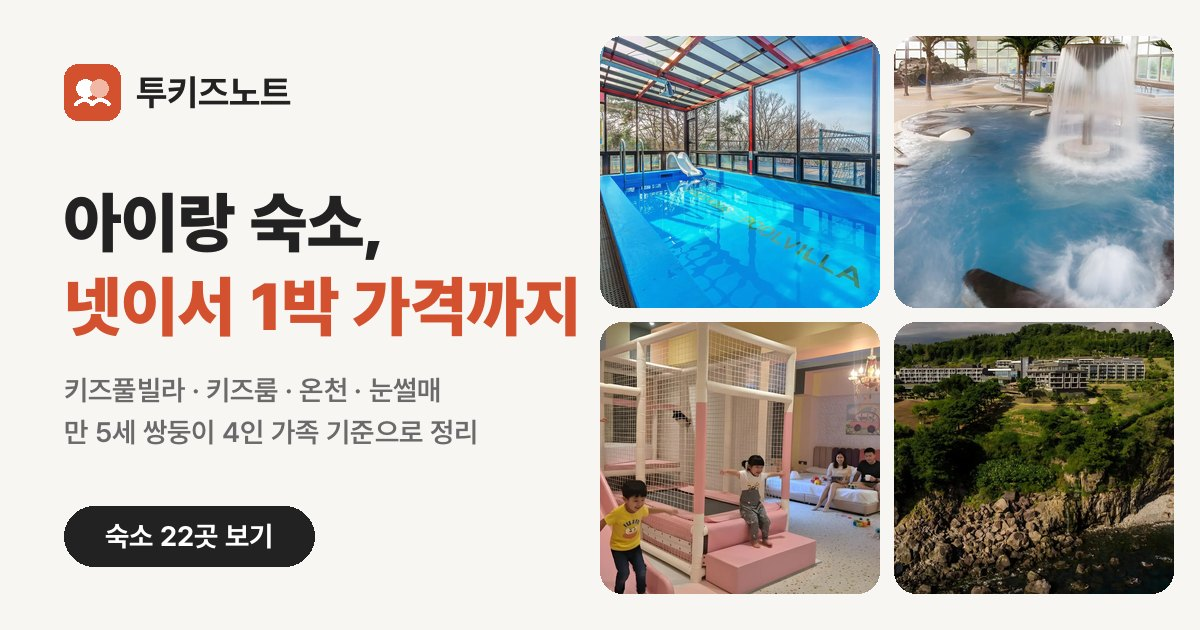
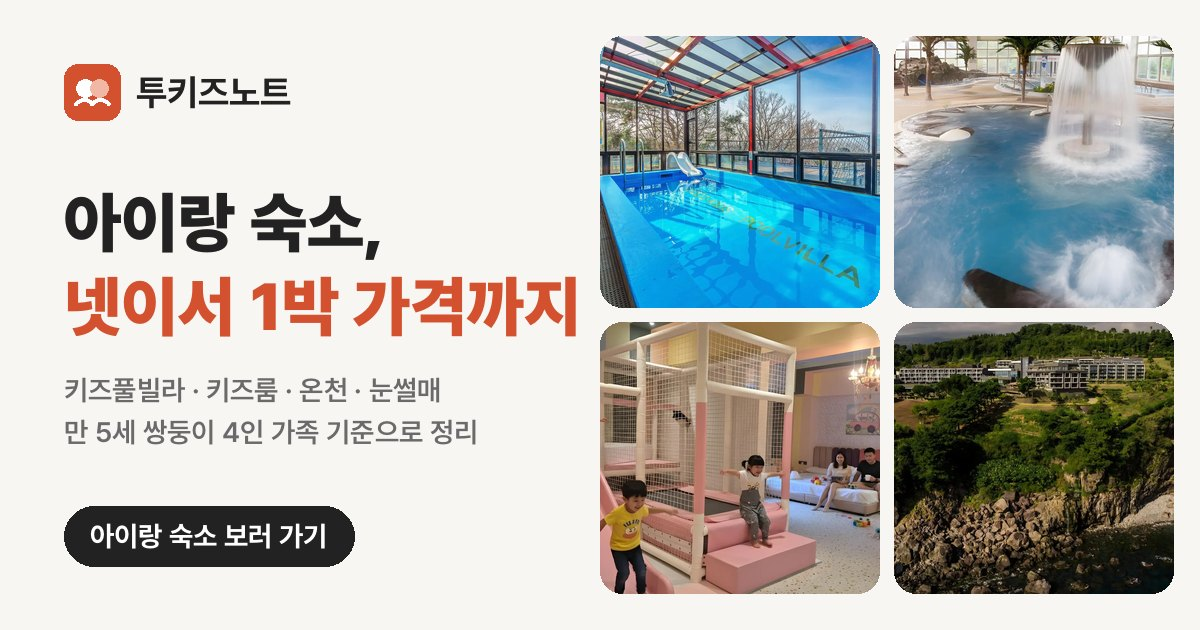
2kids site: 홈 썸네일·설명에서 숙소 수 빼고 범용 문구 (사용자 요청)
Claude-Session: https://claude.ai/code/session_01L4iGvZ1VGfG9ZbbsKbfpx2

Changed region(s): [[0.0617, 0.7841, 0.3083, 0.9048]]

diff --git a/2kids/site/public/index.html b/2kids/site/public/index.html
@@ -1,12 +1,12 @@
 <!doctype html><html lang="ko"><head><meta charset="utf-8">
 <meta name="viewport" content="width=device-width,initial-scale=1,viewport-fit=cover">
-<title>아이랑 숙소 추천 · 키즈풀빌라·키즈룸·온천 | 투키즈노트</title><meta name="description" content="아이랑 가기 좋은 숙소 22곳을 만 5세 쌍둥이 4인 가족 기준으로 정리했어요. 넷이서 실제 1박 가격과 물놀이·키즈룸·온천·눈썰매 테마별로 골라 보세요.">
+<title>아이랑 숙소 추천 · 키즈풀빌라·키즈룸·온천 | 투키즈노트</title><meta name="description" content="아이랑 가기 좋은 숙소를 만 5세 쌍둥이 4인 가족 기준으로 정리했어요. 넷이서 실제 1박 가격과 물놀이·키즈룸·온천·눈썰매 테마별로 골라 보세요.">
 <meta name="robots" content="index,follow"><link rel="canonical" href="https://kids.jupjupalarm.com/">
 <meta name="theme-color" content="#FFFFFF" media="(prefers-color-scheme: light)"><meta name="theme-color" content="#181818" media="(prefers-color-scheme: dark)">
 <link rel="icon" href="/favicon.svg" type="image/svg+xml"><link rel="apple-touch-icon" href="/apple-touch-icon.png">
 <link rel="preload" href="/fonts/p700.woff2" as="font" type="font/woff2" crossorigin>
 <meta property="og:type" content="website"><meta property="og:site_name" content="투키즈노트"><meta property="og:locale" content="ko_KR">
-<meta property="og:title" content="투키즈노트 | 쌍둥이 엄마가 정리한 아이랑 숙소"><meta property="og:description" content="아이랑 가기 좋은 숙소 22곳을 만 5세 쌍둥이 4인 가족 기준으로 정리했어요. 넷이서 실제 1박 가격과 물놀이·키즈룸·온천·눈썰매 테마별로 골라 보세요."><meta property="og:url" content="https://kids.jupjupalarm.com/"><meta property="og:image" content="https://kids.jupjupalarm.com/og.jpg"><meta property="og:image:width" content="1200"><meta property="og:image:height" content="630"><meta property="og:image:alt" content="투키즈노트 — 아이랑 숙소 22곳, 넷이서 1박 가격까지"><meta name="twitter:card" content="summary_large_image"><meta name="twitter:title" content="투키즈노트 | 쌍둥이 엄마가 정리한 아이랑 숙소"><meta name="twitter:description" content="아이랑 가기 좋은 숙소 22곳을 만 5세 쌍둥이 4인 가족 기준으로 정리했어요. 넷이서 실제 1박 가격과 물놀이·키즈룸·온천·눈썰매 테마별로 골라 보세요."><meta name="twitter:image" content="https://kids.jupjupalarm.com/og.jpg">
+<meta property="og:title" content="투키즈노트 | 쌍둥이 엄마가 정리한 아이랑 숙소"><meta property="og:description" content="아이랑 가기 좋은 숙소를 만 5세 쌍둥이 4인 가족 기준으로 정리했어요. 넷이서 실제 1박 가격과 물놀이·키즈룸·온천·눈썰매 테마별로 골라 보세요."><meta property="og:url" content="https://kids.jupjupalarm.com/"><meta property="og:image" content="https://kids.jupjupalarm.com/og.jpg"><meta property="og:image:width" content="1200"><meta property="og:image:height" content="630"><meta property="og:image:alt" content="투키즈노트 — 아이랑 숙소, 넷이서 1박 가격까지"><meta name="twitter:card" content="summary_large_image"><meta name="twitter:title" content="투키즈노트 | 쌍둥이 엄마가 정리한 아이랑 숙소"><meta name="twitter:description" content="아이랑 가기 좋은 숙소를 만 5세 쌍둥이 4인 가족 기준으로 정리했어요. 넷이서 실제 1박 가격과 물놀이·키즈룸·온천·눈썰매 테마별로 골라 보세요."><meta name="twitter:image" content="https://kids.jupjupalarm.com/og.jpg">
 <style>
 :root{--bg:#FFFFFF;--soft:#F7F6F3;--ink:#222222;--sub:#6A6A6A;--line:#EBEBEB;--acc:#D4512F;--acc-ink:#FFFFFF;--shadow:0 6px 20px rgba(60,40,20,.10);
 --ease:cubic-bezier(.22,1,.36,1);--r:12px;--wrap:1280px}

diff --git a/2kids/site/build.py b/2kids/site/build.py
@@ -769,7 +769,7 @@ def og_image(st):
 HOME_OG_PICK = ["icoco-kids-family-poolvilla-yangpyeong", "deokgu-onsen-resort-uljin", "armond-kids-hotel-gimhae", "jw-marriott-jeju"]  # 공유 썸네일 2×2 (물놀이·온천·키즈룸·제주) — 없으면 앞에서부터 채움
 
 
-def home_og(stays, n):
+def home_og(stays, n=None):
     """홈 공유 썸네일 1200×630 (2026-11-22 사용자 요청): 왼쪽 로고·제목·숙소 수, 오른쪽 숙소 사진 2×2. 매 빌드 다시 만듦."""
     from PIL import Image, ImageDraw, ImageFont
     W, H = 1200, 630
@@ -799,8 +799,8 @@ def home_og(stays, n):
     d.text((64, 330), "넷이서 1박 가격까지", font=f("Pretendard-Black.otf", 66), fill="#D4512F", anchor="ls")
     d.text((64, 400), "키즈풀빌라 · 키즈룸 · 온천 · 눈썰매", font=f("Pretendard-SemiBold.otf", 28), fill="#6A6A6A", anchor="ls")
     d.text((64, 442), "만 5세 쌍둥이 4인 가족 기준으로 정리", font=f("Pretendard-SemiBold.otf", 28), fill="#6A6A6A", anchor="ls")
-    d.rounded_rectangle((64, 506, 64 + 250, 566), 30, fill="#222222")
-    d.text((64 + 125, 536), f"숙소 {n}곳 보기", font=f("Pretendard-Bold.otf", 28), fill="#FFFFFF", anchor="mm")
+    d.rounded_rectangle((64, 506, 64 + 290, 566), 30, fill="#222222")   # 2026-11-22 사용자: 숫자 없이 범용 문구 (카톡 등은 썸네일을 오래 저장해 둠)
+    d.text((64 + 145, 536), "아이랑 숙소 보러 가기", font=f("Pretendard-Bold.otf", 28), fill="#FFFFFF", anchor="mm")
     im.save(OUT / "og.jpg", "JPEG", quality=86, optimize=True)
 
 
@@ -858,10 +858,10 @@ def main():
               {"@type": "ListItem", "position": i + 1, "url": f"{SITE}/stay/{s['slug']}/"} for i, s in enumerate(indexed)]}]
     home_og(stays, len(stays))   # 2026-11-22 사용자 요청: 홈 공유 썸네일 (숙소 한 곳 사진 대신 브랜드 + 사진 4장)
     write("/", page("아이랑 숙소 추천 · 키즈풀빌라·키즈룸·온천 | 투키즈노트",
-                    f"아이랑 가기 좋은 숙소 {len(stays)}곳을 만 5세 쌍둥이 4인 가족 기준으로 정리했어요. 넷이서 실제 1박 가격과 물놀이·키즈룸·온천·눈썰매 테마별로 골라 보세요.",
+                    "아이랑 가기 좋은 숙소를 만 5세 쌍둥이 4인 가족 기준으로 정리했어요. 넷이서 실제 1박 가격과 물놀이·키즈룸·온천·눈썰매 테마별로 골라 보세요.",
                     "/", home(stays), True, ld, og_image="/og.jpg", search=True,
                     og_title="투키즈노트 | 쌍둥이 엄마가 정리한 아이랑 숙소",
-                    og_alt=f"투키즈노트 — 아이랑 숙소 {len(stays)}곳, 넷이서 1박 가격까지").replace("{cats}", cats_bar()))
+                    og_alt="투키즈노트 — 아이랑 숙소, 넷이서 1박 가격까지").replace("{cats}", cats_bar()))
     write("/about/", page("투키즈노트가 숙소를 고르고 정리하는 기준", "누가 어떤 기준으로 숙소를 고르고 가격을 확인하는지.", "/about/",
                           ABOUT).replace("{cats}", ""))
     write("/404.html", page("페이지를 찾을 수 없어요 | 투키즈노트", "주소가 바뀌었거나 없는 페이지예요.", "/404.html",
